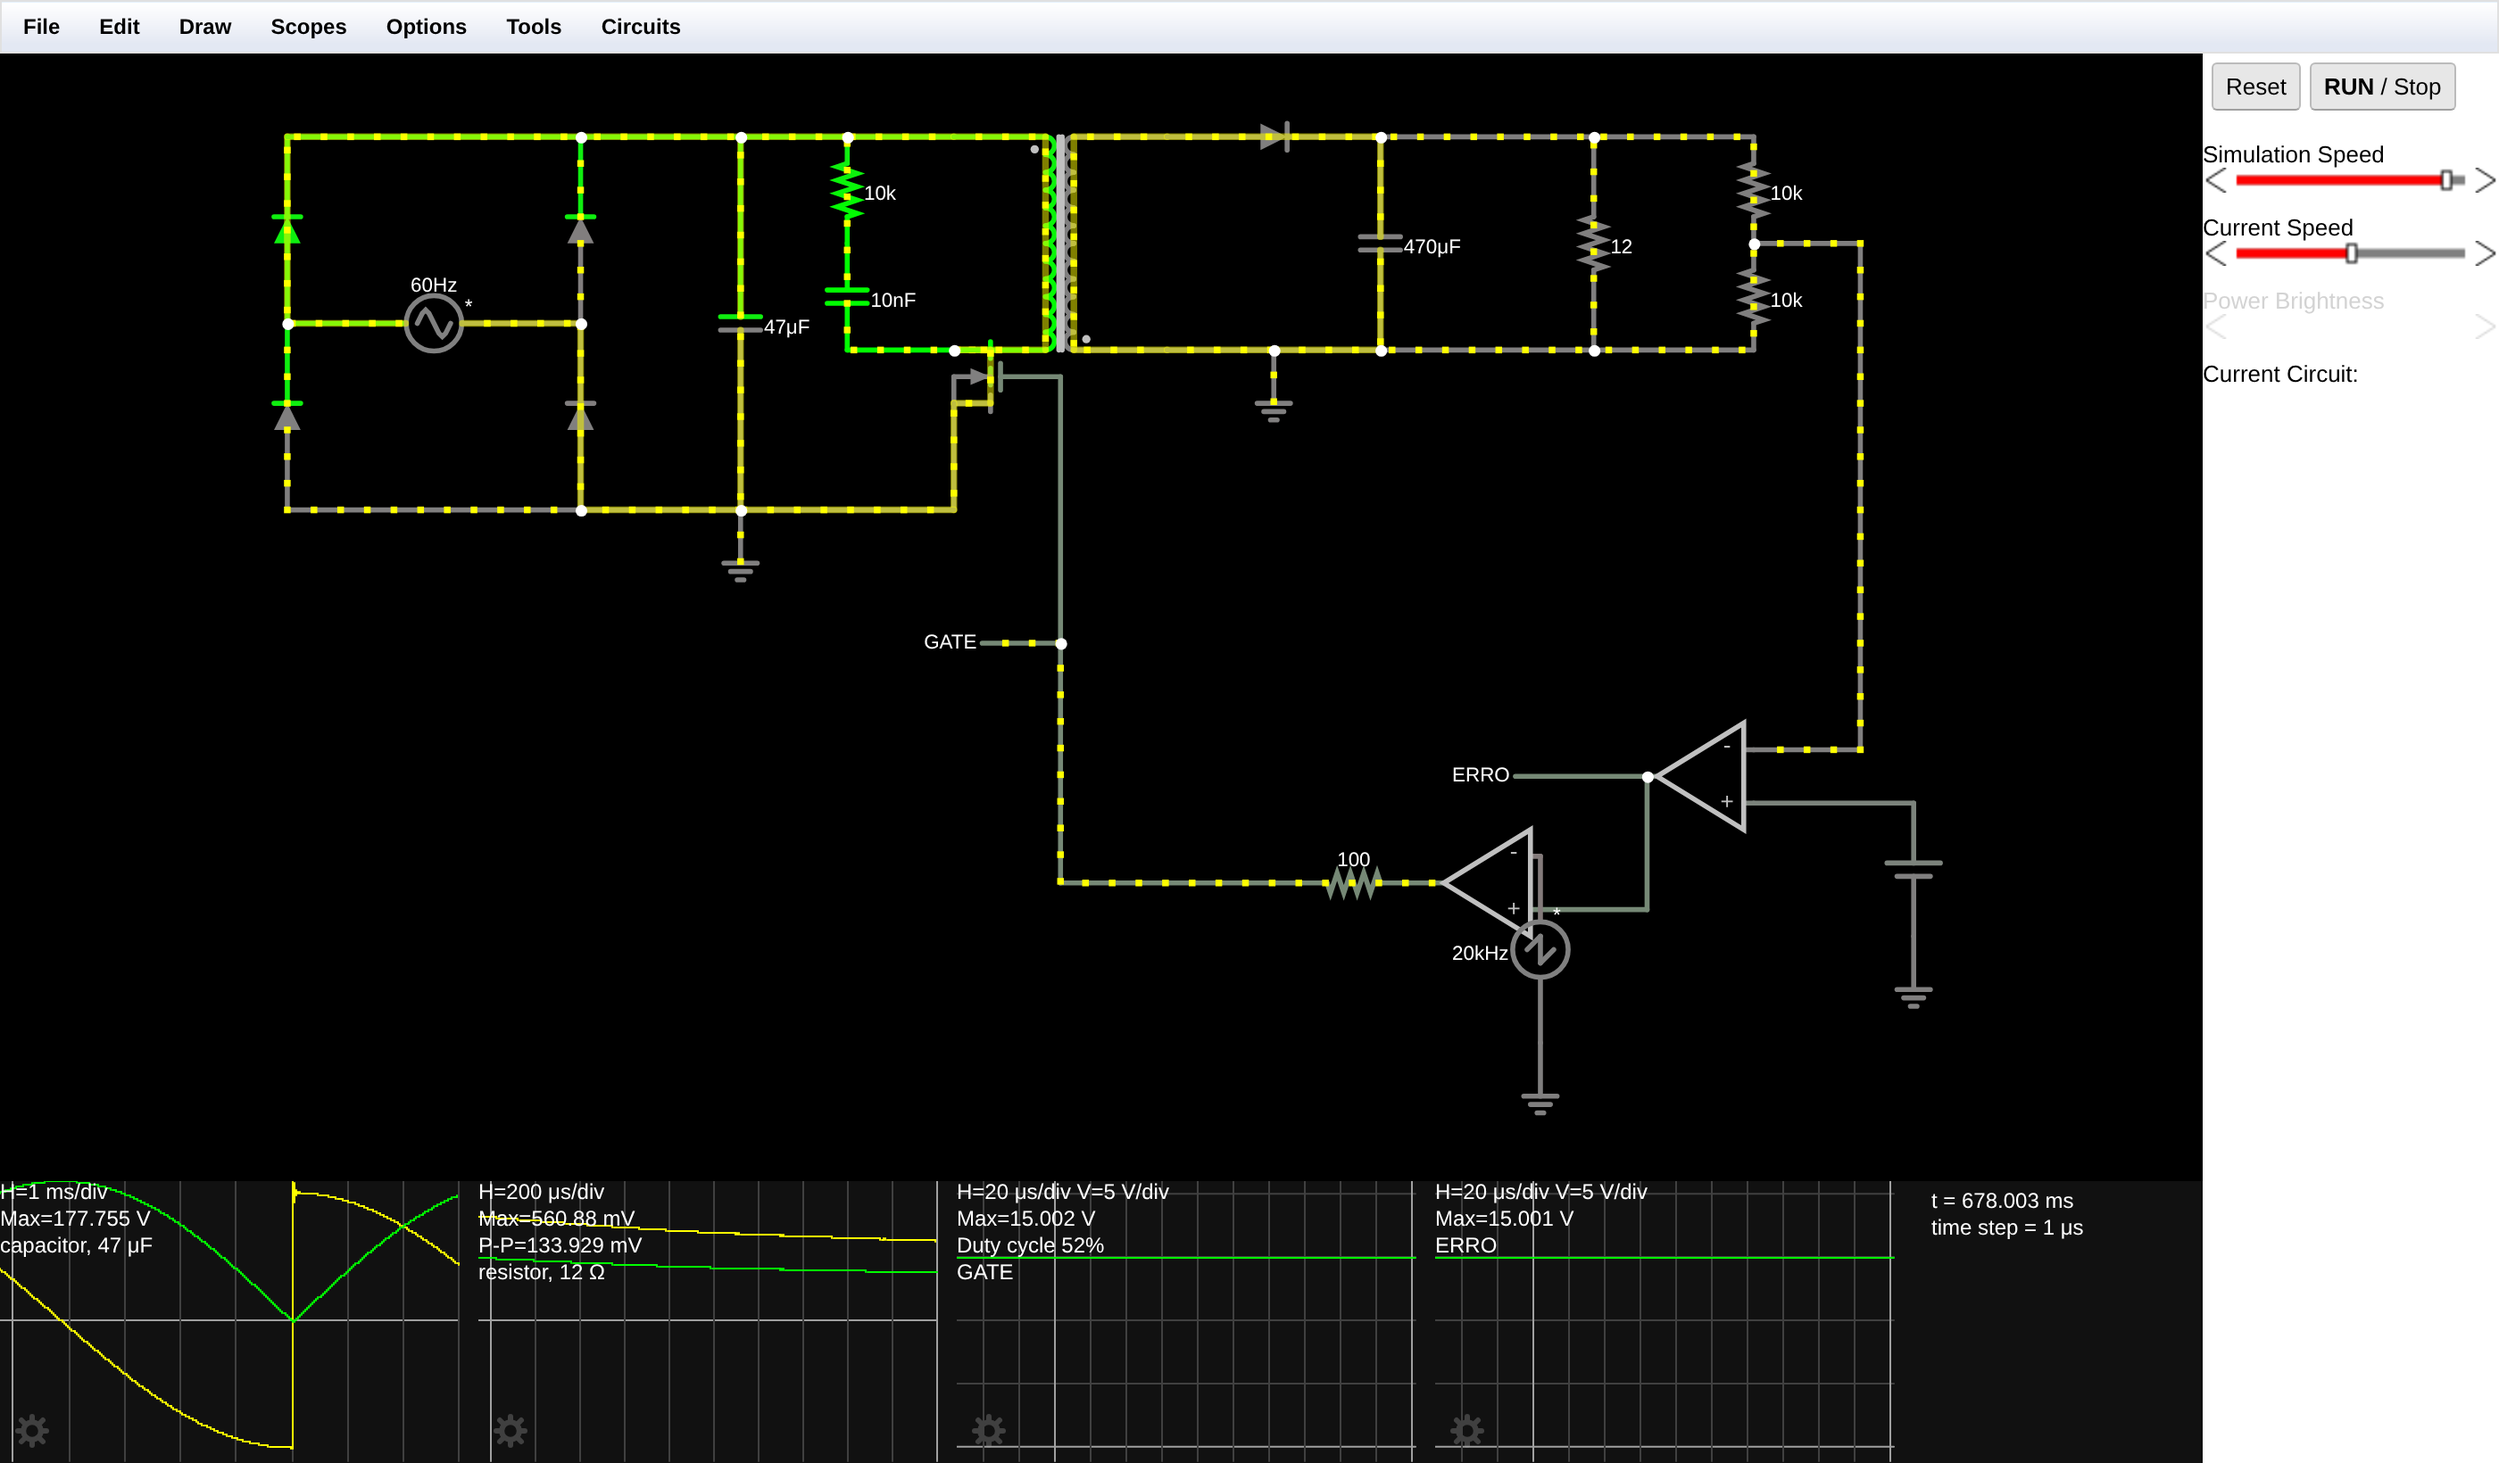
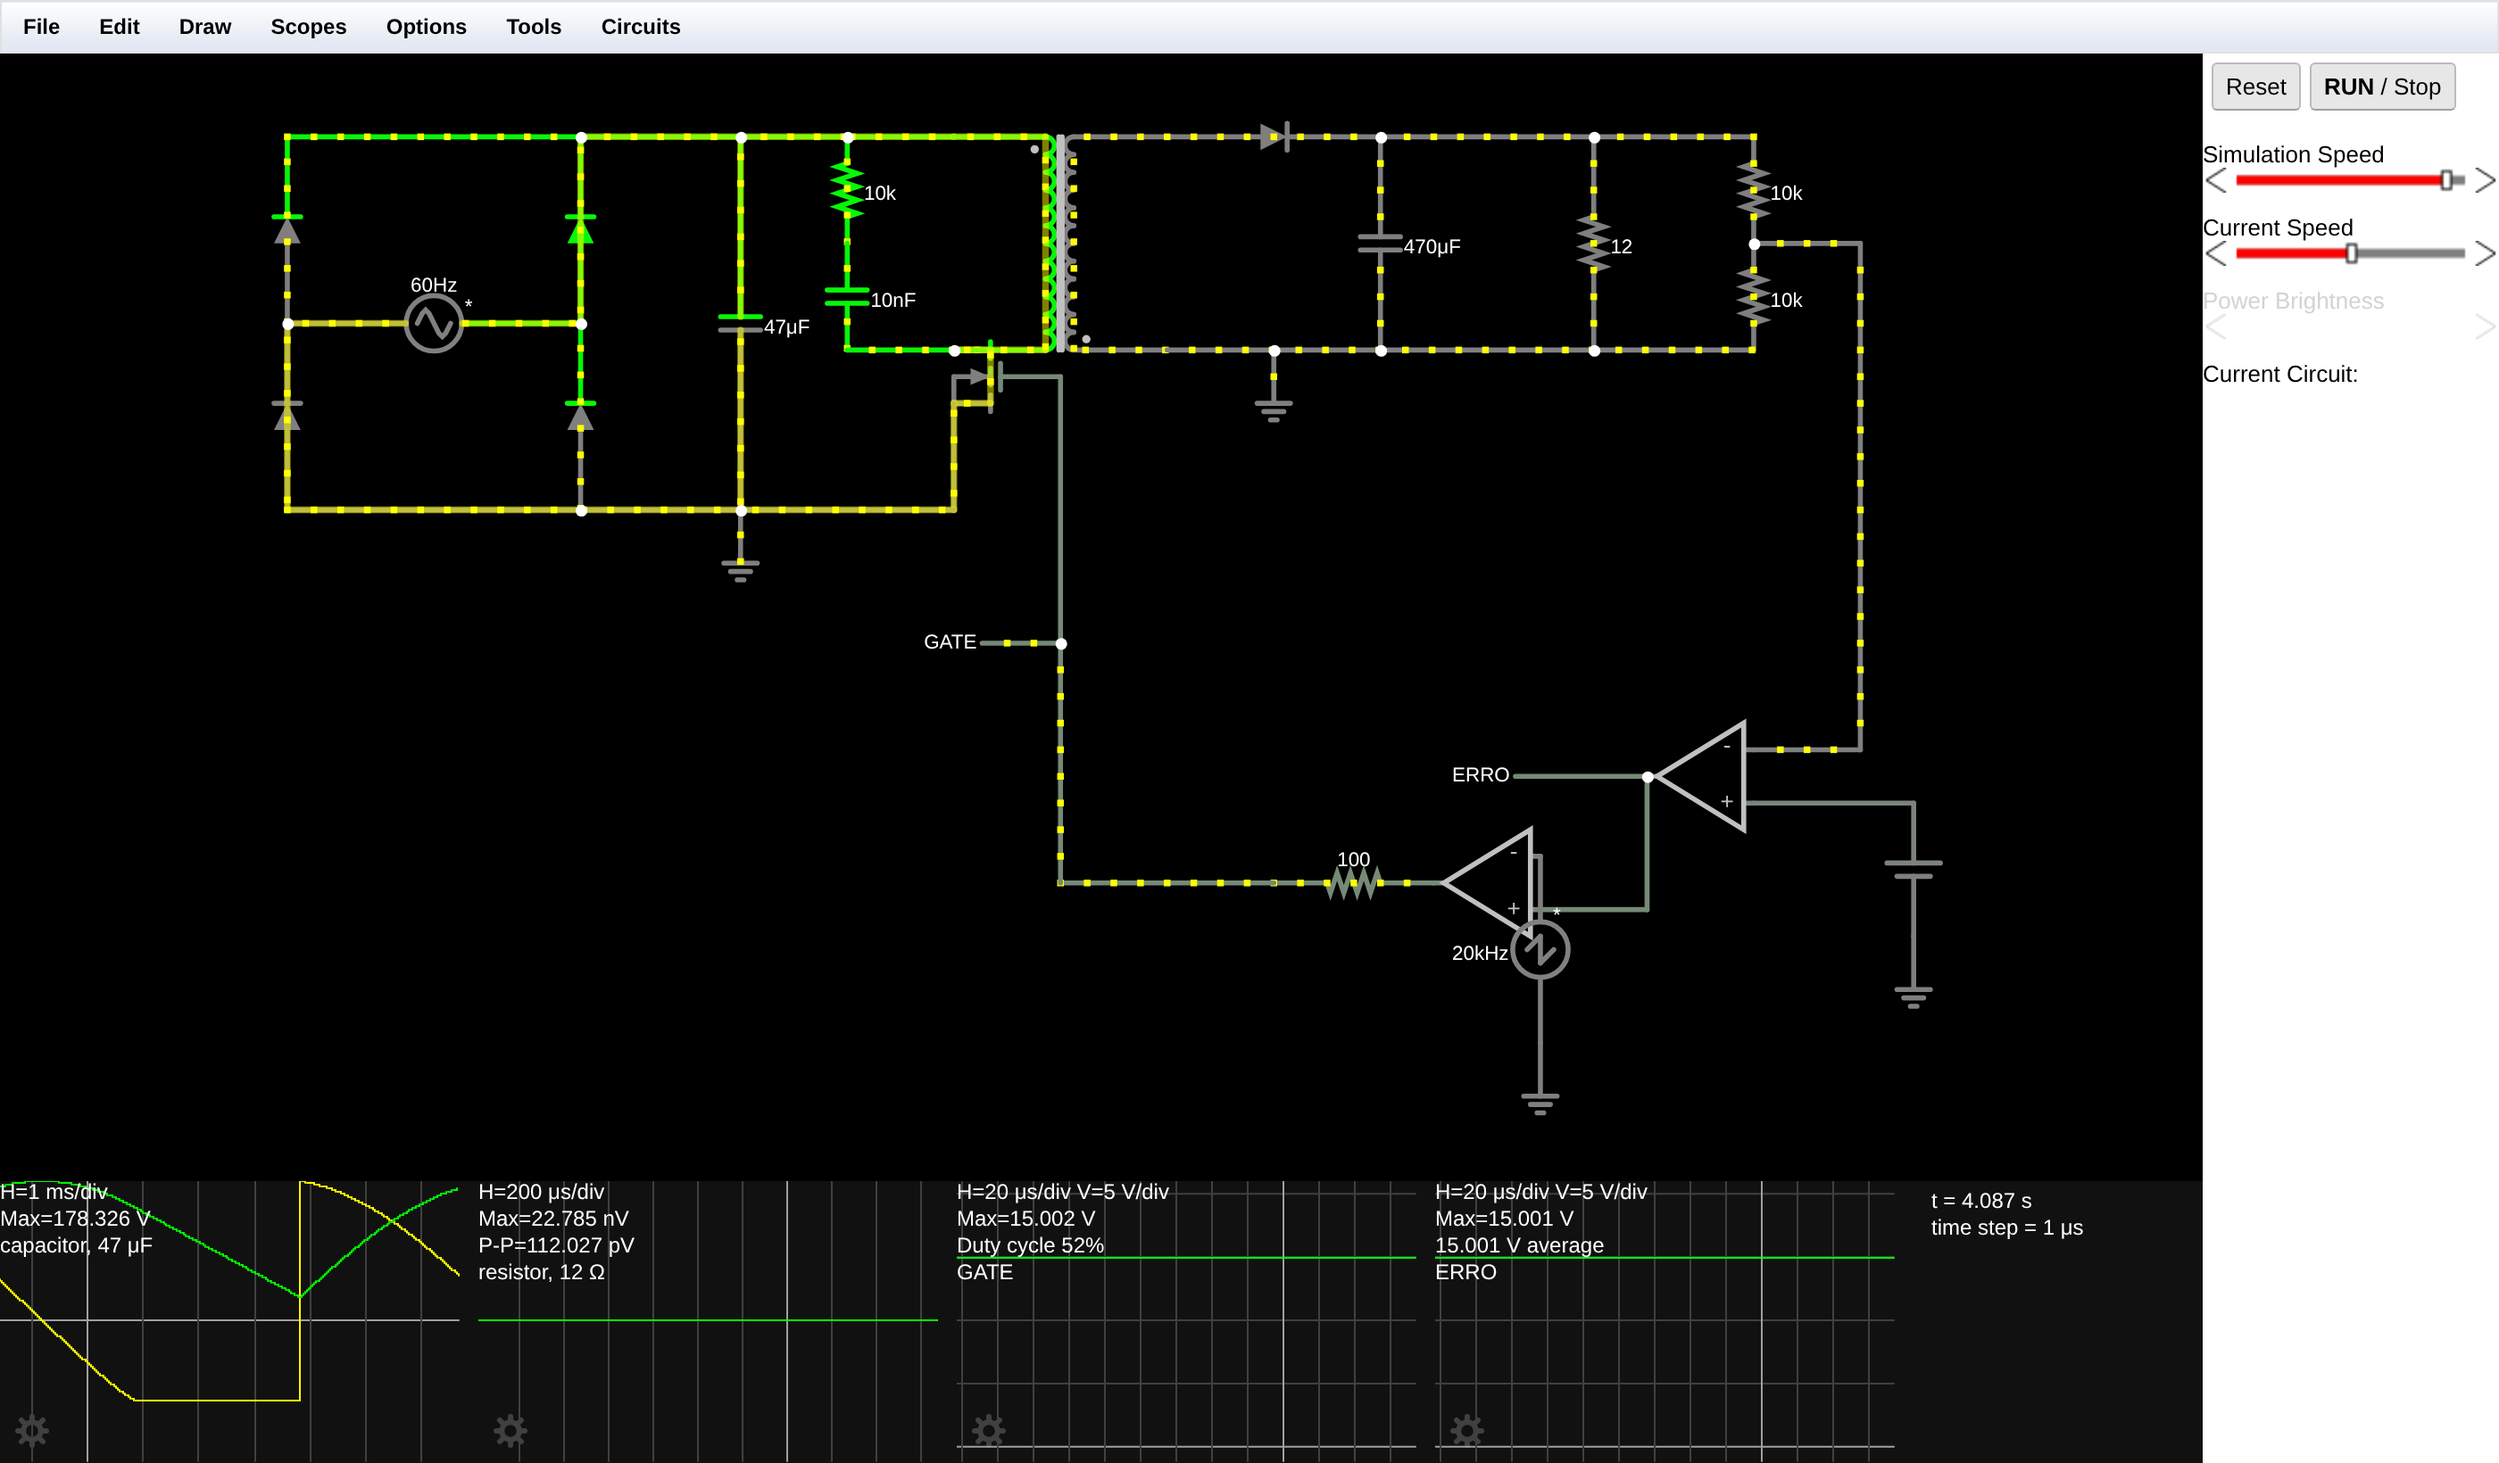
Atualiza relatório com os ensaios de carga leve e da montagem literal
Carga leve (220 V, 120 ohms): saída de 11,919 V, ondulação de 239 mV e razão
cíclica de 6 %. A tensão de saída cai 0,36 % em vez de subir, e o chaveamento
permanece regular — corrige a versão anterior do texto, que descrevia modo de
rajadas a partir da medição feita com MOSFET de potência.

Montagem literal do roteiro: com o MOSFET de fábrica a saída fica em 22,8 nV,
contra os 0,56 V medidos antes. Sem o bloqueio da chave o diodo do secundário
nunca conduz e a transferência de energia é nula.

Acrescenta nota de medição: a razão cíclica lida no osciloscópio fica cerca de
3,5 pontos percentuais acima do previsto pelo sinal de erro nas três condições
ensaiadas, o que corresponde a um atraso fixo de ~1,8 us no caminho
comparador-gate e explica a largura mínima de pulso dos controladores reais.

Claude-Session: https://claude.ai/code/session_01PLwXzCKm9zTWme2NoW3eNF

diff --git a/fonte-falstad/relatorio.html b/fonte-falstad/relatorio.html
@@ -140,8 +140,8 @@ sua saída vai imediatamente a ±15 V. Como a rampa de comparação vai apenas d
 comparador PWM <b>permanentemente em nível alto</b> — razão cíclica de 100 %.</p>
 <p>E aqui está a armadilha específica do flyback: <b>com 100 % de razão cíclica a chave nunca abre, o diodo de saída
 nunca conduz e a fonte não entrega absolutamente nada</b>. A saída fica em zero, o erro continua saturado e o
-circuito trava nesse estado. O Experimento 4 (seção 7) comprova: saída de <b>0,56 V</b> com o sinal de erro parado
-em +15,0 V.</p>
+circuito trava nesse estado. O Experimento 4 (seção 6.5) comprova: saída de <b>22,8 nV</b> — zero, para todos os efeitos —
+com o sinal de erro parado em +15,0 V.</p>
 <p><b>Correção:</b> limitar a excursão de saída do amplificador de erro para a faixa <b>0 a −5 V</b> (campo
 <i>Output Range</i> do amp-op). Isso mantém o erro dentro da janela da rampa e, de quebra, implementa o
 <b>limite de razão cíclica máxima de 50 %</b> — recurso obrigatório em todo CI controlador de flyback real,
@@ -215,24 +215,25 @@ aumento de perdas de comutação na tensão mais alta. A fonte entrega <b>999 mA
 <h3>6.4 Experimento 3 — Teste de variação de carga</h3>
 <figure><img src="shots_hd/E3_carga_leve.png"></figure>
 <div class="cap"><b>Figura 3</b> — Entrada mantida em 220 V e carga alterada de 12 Ω (1 A) para 120 Ω (100 mA). A
-saída ficou em <b>12,077 V</b> e a ondulação caiu para 146 mV. O osciloscópio GATE mostra pulsos extremamente
-estreitos e espaçados, e o sinal de erro desceu a −4,946 V, praticamente encostado no limite inferior de −5 V que
-corresponde à razão cíclica nula.</div>
+saída ficou em <b>11,919 V</b> e a ondulação caiu de 370 mV para <b>239 mV</b>. O osciloscópio GATE mostra pulsos
+visivelmente mais estreitos (razão cíclica de 6 %, contra 10 % em carga nominal) e o sinal de erro desceu de
+−4,308 V para <b>−4,755 V</b>, aproximando-se do limite inferior de −5 V que corresponde à razão cíclica nula.</div>
 <table>
 <tr><th>Condição</th><th>Corrente de saída</th><th>Tensão de saída</th><th>Ondulação</th><th>Sinal de erro</th><th>Razão cíclica</th></tr>
-<tr><td>220 V · carga nominal (12 Ω)</td><td>992 mA</td><td>11,901 V</td><td>333 mV</td><td>−4,327 V</td><td>10 %</td></tr>
-<tr><td>220 V · carga leve (120 Ω)</td><td>101 mA</td><td>12,077 V</td><td>146 mV</td><td>−4,946 V</td><td>&lt; 1 % (pulso saltado)</td></tr>
-<tr><td colspan="6"><b>Regulação de carga: +1,48 %</b> para uma variação de 10:1 na corrente de saída.
+<tr><td>220 V · carga nominal (12 Ω)</td><td>997 mA</td><td>11,962 V</td><td>370 mV</td><td>−4,308 V</td><td>10 %</td></tr>
+<tr><td>220 V · carga leve (120 Ω)</td><td>99 mA</td><td>11,919 V</td><td>239 mV</td><td>−4,755 V</td><td>6 %</td></tr>
+<tr><td colspan="6"><b>Regulação de carga: −0,36 %</b> para uma variação de 10:1 na corrente de saída.
 <b>Regulação de linha: −0,23 %</b> para uma variação de +73 % na tensão da rede.</td></tr>
 </table>
 
 <h3>6.5 Experimento 4 — A montagem literal do roteiro, para comparação</h3>
 <figure><img src="shots_hd/E4_roteiro_literal.png"></figure>
-<div class="cap"><b>Figura 4</b> — O mesmo circuito <b>sem</b> os ajustes da seção 4.1 e 4.2 (amp-op com saída de
-±15 V e sem capacitor de compensação). O barramento funciona normalmente (177,755 V), mas o sinal de ERRO está
-travado em <b>+15,001 V</b>, o traço do GATE é uma <b>linha reta em +15 V</b> — o MOSFET nunca desliga — e a saída
-fica em <b>560 mV</b>. É a demonstração prática de que um flyback com razão cíclica de 100 % não transfere energia
-nenhuma.</div>
+<div class="cap"><b>Figura 4</b> — O mesmo circuito <b>sem</b> os ajustes das seções 4.1 e 4.2 (amp-op com saída
+de ±15 V e sem capacitor de compensação). O estágio de entrada funciona normalmente — o barramento está em
+<b>178,326 V</b> —, mas o sinal de ERRO está travado em <b>+15,001 V</b>, o traço do GATE é uma <b>linha reta em
++15 V</b> (o MOSFET nunca desliga) e a saída fica em <b>22,8 nV</b>. É a demonstração prática de que um flyback com
+razão cíclica de 100 % não transfere absolutamente nenhuma energia: sem o bloqueio da chave, o diodo do secundário
+nunca conduz.</div>
 
 <h3>6.6 Comparação: MOSFET padrão × MOSFET de potência</h3>
 <p>Para quantificar o efeito da resistência de condução da chave, o circuito foi simulado também com um MOSFET de
@@ -270,17 +271,22 @@ para potência de saída constante.</p>
 
 <div class="q"><b>Observação (Experimento 3).</b> Verifique como a malha de realimentação ajusta instantaneamente o chaveamento para impedir que a tensão de saída ultrapasse os 12 V.</div>
 <p>Reduzindo a carga de 1 A para 100 mA, a potência exigida cai dez vezes. A malha respondeu levando o sinal de erro
-de −4,327 V para <b>−4,946 V</b> — a apenas 54 mV do limite inferior de −5 V, que corresponde a pulso nulo. A razão
-cíclica caiu para menos de 1 % e a saída ficou em <b>12,077 V</b>, ou seja, subiu apenas 1,5 % apesar da redução de
-10:1 na corrente.</p>
-<p>Um detalhe interessante aparece no osciloscópio do GATE: em vez de pulsos uniformes muito estreitos, veem-se
-pulsos espaçados, com ciclos inteiros <b>sem nenhum pulso</b>. Isso acontece porque a largura exigida (≈ 300 ns)
-fica abaixo da resolução do passo de cálculo de 1 µs, e o controlador passa a <b>saltar ciclos</b> para entregar a
-energia média correta. Longe de ser um defeito, esse é exatamente o <b>modo de rajadas</b> (<i>burst mode</i>) que
-os CIs controladores modernos adotam deliberadamente em carga leve, porque reduz as perdas de comutação e melhora
-o rendimento em espera — é o que permite a uma fonte moderna consumir menos de 100 mW sem carga.</p>
-<p>Vale notar também que a ondulação de saída caiu de 333 mV para 146 mV: com menos corrente drenada, o capacitor
-de 470 µF se descarrega muito mais lentamente entre os pulsos.</p>
+de −4,308 V para <b>−4,755 V</b>, estreitando a razão cíclica de 10 % para <b>6 %</b>. A saída ficou em
+<b>11,919 V</b>: uma variação de apenas <b>−0,36 %</b> apesar da redução de 10:1 na corrente. A malha de fato
+impede que a tensão suba — a saída sequer ultrapassou os 12 V.</p>
+<p>A relação entre a potência e a largura do pulso não é linear, e sim <b>quadrática</b>. No modo de condução
+descontínua a energia transferida por ciclo vale ½·L<sub>p</sub>·I<sub>pico</sub>², com
+I<sub>pico</sub> = V<sub>barramento</sub>·D·T/L<sub>p</sub>, de modo que a potência cresce com D². Reduzir a
+potência em dez vezes exige dividir a razão cíclica por √10 ≈ 3,2 — compatível com o que foi medido, lembrando que
+a leitura do osciloscópio inclui o atraso de comutação discutido abaixo.</p>
+<p>A ondulação de saída também caiu, de 370 mV para <b>239 mV</b>: com menos corrente drenada, o capacitor de
+470 µF se descarrega muito mais lentamente entre os pulsos.</p>
+<p><b>Nota de medição.</b> Comparando as três condições, a razão cíclica lida no osciloscópio fica
+sistematicamente cerca de 3,5 pontos percentuais acima do valor que o sinal de erro prevê pela relação
+D = (V<sub>erro</sub> + 5)/10: 16 % contra 12,5 % em 127 V, 10 % contra 6,9 % em 220 V e 6 % contra 2,5 % em carga
+leve. O desvio é praticamente constante e corresponde a um atraso fixo de ≈ 1,8 µs no caminho
+comparador → resistor de gate → MOSFET, coerente com a largura de banda finita do amp-op. Em um controlador real
+esse atraso é justamente o que estabelece a <b>largura mínima de pulso</b> do CI.</p>
 
 <div class="q"><b>Discussão complementar.</b> Por que a tensão medida no barramento DC é ligeiramente menor que a tensão de pico configurada na fonte AC?</div>
 <p>Porque a corrente atravessa sempre <b>dois diodos em série</b> da ponte (um no ramo positivo e outro no ramo de
@@ -320,13 +326,13 @@ As medições confirmam quantitativamente o comportamento previsto: barramento d
 <b>309,661 V</b> em 220 V, ambos a menos de 0,1 V do modelo que desconta as duas quedas de diodo da ponte.</p>
 <p>A operação <b>bivolt automática</b> foi comprovada: aumentando a rede em 73 %, a malha de realimentação estreitou
 os pulsos de 16 % para 10 % e a saída variou apenas <b>−0,23 %</b>. O teste de carga mostrou regulação de
-<b>+1,48 %</b> para uma variação de 10:1 na corrente. Em ambos os casos o sinal de erro, monitorado em um
+<b>−0,36 %</b> para uma variação de 10:1 na corrente. Em ambos os casos o sinal de erro, monitorado em um
 osciloscópio próprio, moveu-se na direção correta dentro da janela da rampa — tornando visível o funcionamento da
 malha, que normalmente é a parte mais abstrata do circuito.</p>
 <p>O trabalho também mostrou que a montagem literal do roteiro não regula. Um amp-op sem rede de realimentação é um
 comparador: sua saída satura em +15 V, muito fora da janela de −5 V a +5 V da rampa, e o PWM trava em 100 %. Como
 o flyback só transfere energia durante o <b>bloqueio</b> da chave, 100 % de razão cíclica significa potência
-nula — e a fonte fica presa nesse estado, com 0,56 V na saída. As duas correções aplicadas — limitar a excursão do
+nula — e a fonte fica presa nesse estado, com 22,8 nV na saída. As duas correções aplicadas — limitar a excursão do
 amplificador de erro, o que de quebra implementa o limite de razão cíclica máxima, e acrescentar o capacitor de
 compensação — não são artifícios de simulação: são exatamente as funções que qualquer CI controlador de fonte
 chaveada implementa internamente. Todos os componentes e valores especificados no roteiro, MOSFET incluído, foram
